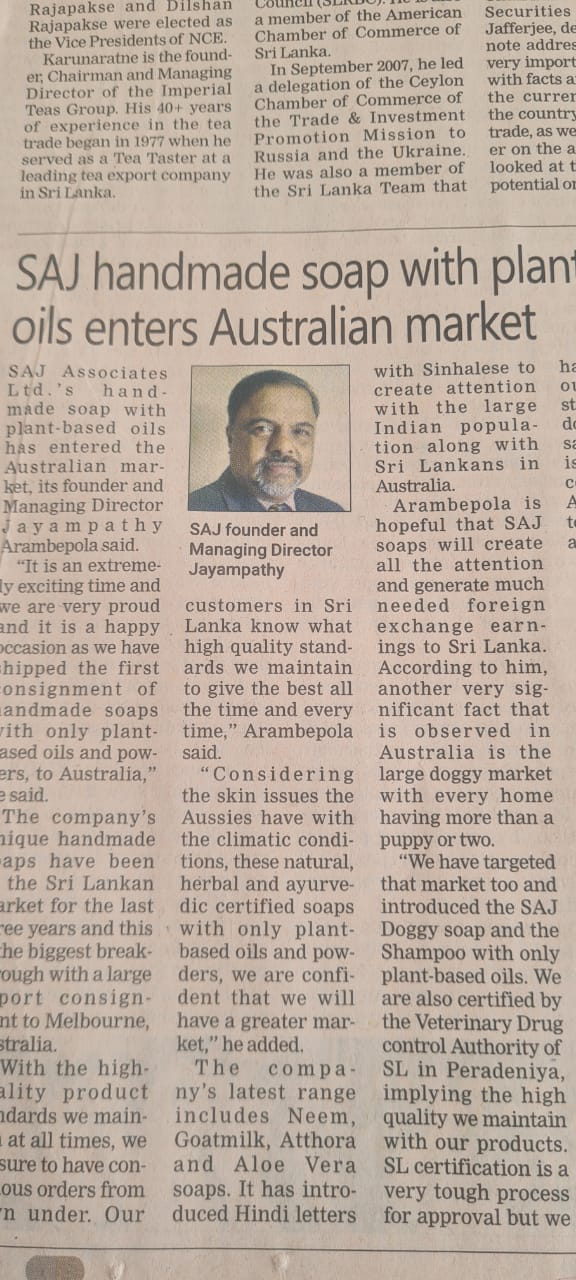
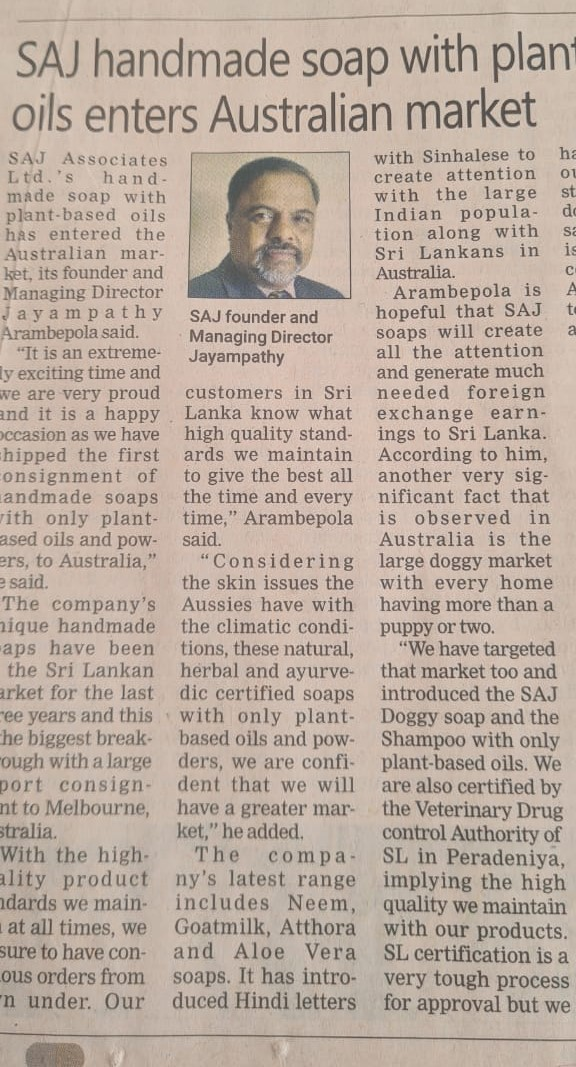
nav publicity chng

diff --git a/src/pages/Home.tsx b/src/pages/Home.tsx
@@ -107,7 +107,7 @@ const Home = () => {
       <BrandIconsCarousel />
 
       {/* SOAPS Section */}
-      <section className='py-16 px-4'>
+      {/* <section className='py-16 px-4'>
         <div className='container mx-auto'>
           <div className='flex items-center gap-3 mb-8'>
             <Sparkles className='w-8 h-8 text-primary' />
@@ -129,10 +129,10 @@ const Home = () => {
             </Button>
           </div>
         </div>
-      </section>
+      </section> */}
 
       {/* HAIR CARE Section */}
-      <section className='py-16 px-4'>
+      {/* <section className='py-16 px-4'>
         <div className='container mx-auto'>
           <div className='flex items-center gap-3 mb-8'>
             <Zap className='w-8 h-8 text-primary' />
@@ -156,10 +156,10 @@ const Home = () => {
             </Button>
           </div>
         </div>
-      </section>
+      </section> */}
 
       {/* HAIR CARE Section */}
-      <section className='py-16 px-4'>
+      {/* <section className='py-16 px-4'>
         <div className='container mx-auto'>
           <div className='flex items-center gap-3 mb-8'>
             <Zap className='w-8 h-8 text-primary' />
@@ -185,10 +185,10 @@ const Home = () => {
             </Button>
           </div>
         </div>
-      </section>
+      </section> */}
 
       {/* LIQUID SOAPS Section */}
-      <section className='py-16 px-4'>
+      {/* <section className='py-16 px-4'>
         <div className='container mx-auto'>
           <div className='flex items-center gap-3 mb-8'>
             <Zap className='w-8 h-8 text-primary' />
@@ -214,10 +214,10 @@ const Home = () => {
             </Button>
           </div>
         </div>
-      </section>
+      </section> */}
 
       {/* FACECREAMS Section */}
-      <section className='py-16 px-4 bg-muted/30'>
+      {/* <section className='py-16 px-4 bg-muted/30'>
         <div className='container mx-auto'>
           <div className='flex items-center gap-3 mb-8'>
             <Sparkles className='w-8 h-8 text-secondary' />
@@ -241,10 +241,10 @@ const Home = () => {
             </Button>
           </div>
         </div>
-      </section>
+      </section> */}
 
       {/* MASSAGE OILS Section */}
-      <section className='py-16 px-4 bg-muted/30'>
+      {/* <section className='py-16 px-4 bg-muted/30'>
         <div className='container mx-auto'>
           <div className='flex items-center gap-3 mb-8'>
             <Zap className='w-8 h-8 text-primary' />
@@ -268,7 +268,7 @@ const Home = () => {
             </Button>
           </div>
         </div>
-      </section>
+      </section> */}
 
       {/* BODY CARE Section */}
       {/* <section className='py-16 px-4 bg-muted/30'>

diff --git a/src/pages/Publicity.tsx b/src/pages/Publicity.tsx
@@ -29,6 +29,23 @@ const Achivement = () => {
         </div>
       </section>
 
+      {/* Founder Section */}
+      <section className='pb-16 px-4'>
+        <div className='container mx-auto max-w-4xl'>
+          <div className='bg-card/90 backdrop-blur-sm border border-border rounded-3xl p-8 text-center shadow-lg'>
+            <img
+              src={founderImage}
+              alt='SAJ Associates Founder Jayampathy Arambepola'
+              className='w-64 h-64 object-cover rounded-full mx-auto mb-6 border-4 border-primary/20 shadow-lg'
+            />
+
+            <h2 className='text-2xl md:text-3xl font-bold text-black'>
+              SAJ Associates Founder Jayampathy Arambepola
+            </h2>
+          </div>
+        </div>
+      </section>
+
       {/* Article Section */}
       <section className='py-16 px-4'>
         <div className='container mx-auto max-w-5xl'>
@@ -122,23 +139,6 @@ const Achivement = () => {
               to the NCP farmers who grow the ingredients will certainly have a
               huge economic advantage,” Arambepola added.
             </p>
-          </div>
-        </div>
-      </section>
-
-      {/* Founder Section */}
-      <section className='pb-16 px-4'>
-        <div className='container mx-auto max-w-4xl'>
-          <div className='bg-card/90 backdrop-blur-sm border border-border rounded-3xl p-8 text-center shadow-lg'>
-            <img
-              src={founderImage}
-              alt='SAJ Associates Founder Jayampathy Arambepola'
-              className='w-64 h-64 object-cover rounded-full mx-auto mb-6 border-4 border-primary/20 shadow-lg'
-            />
-
-            <h2 className='text-2xl md:text-3xl font-bold text-black'>
-              SAJ Associates Founder Jayampathy Arambepola
-            </h2>
           </div>
         </div>
       </section>

diff --git a/src/App.tsx b/src/App.tsx
@@ -12,10 +12,11 @@ import ProductDetail from './pages/ProductDetail';
 import Cart from './pages/Cart';
 import Checkout from './pages/Checkout';
 import Contact from './pages/Contact';
-import Achivement from './pages/Achivement';
+import Publicity from './pages/Publicity';
 import About from './pages/About';
 import NotFound from './pages/NotFound';
 import ScrollToTop from './components/ScrollToTop';
+import Achivement from './pages/Publicity';
 
 const queryClient = new QueryClient();
 
@@ -37,7 +38,7 @@ const App = () => (
                 <Route path='/cart' element={<Cart />} />
                 <Route path='/checkout' element={<Checkout />} />
                 <Route path='/contact' element={<Contact />} />
-                <Route path='/achivement' element={<Achivement />} />
+                <Route path='/publicity' element={<Publicity />} />
                 <Route path='/about' element={<About />} />
                 {/* ADD ALL CUSTOM ROUTES ABOVE THE CATCH-ALL "*" ROUTE */}
                 <Route path='*' element={<NotFound />} />

diff --git a/src/components/Navbar.tsx b/src/components/Navbar.tsx
@@ -12,9 +12,9 @@ const Navbar = () => {
 
   const navLinks = [
     { name: 'Home', path: '/' },
-    { name: 'Products', path: '/products' },
-    { name: 'Achivements', path: '/achivement' },
     { name: 'About', path: '/about' },
+    { name: 'Publicity', path: '/publicity' },
+    { name: 'Products', path: '/products' },
     { name: 'Cart', path: '/cart' },
     { name: 'Contact', path: '/contact' },
   ];
